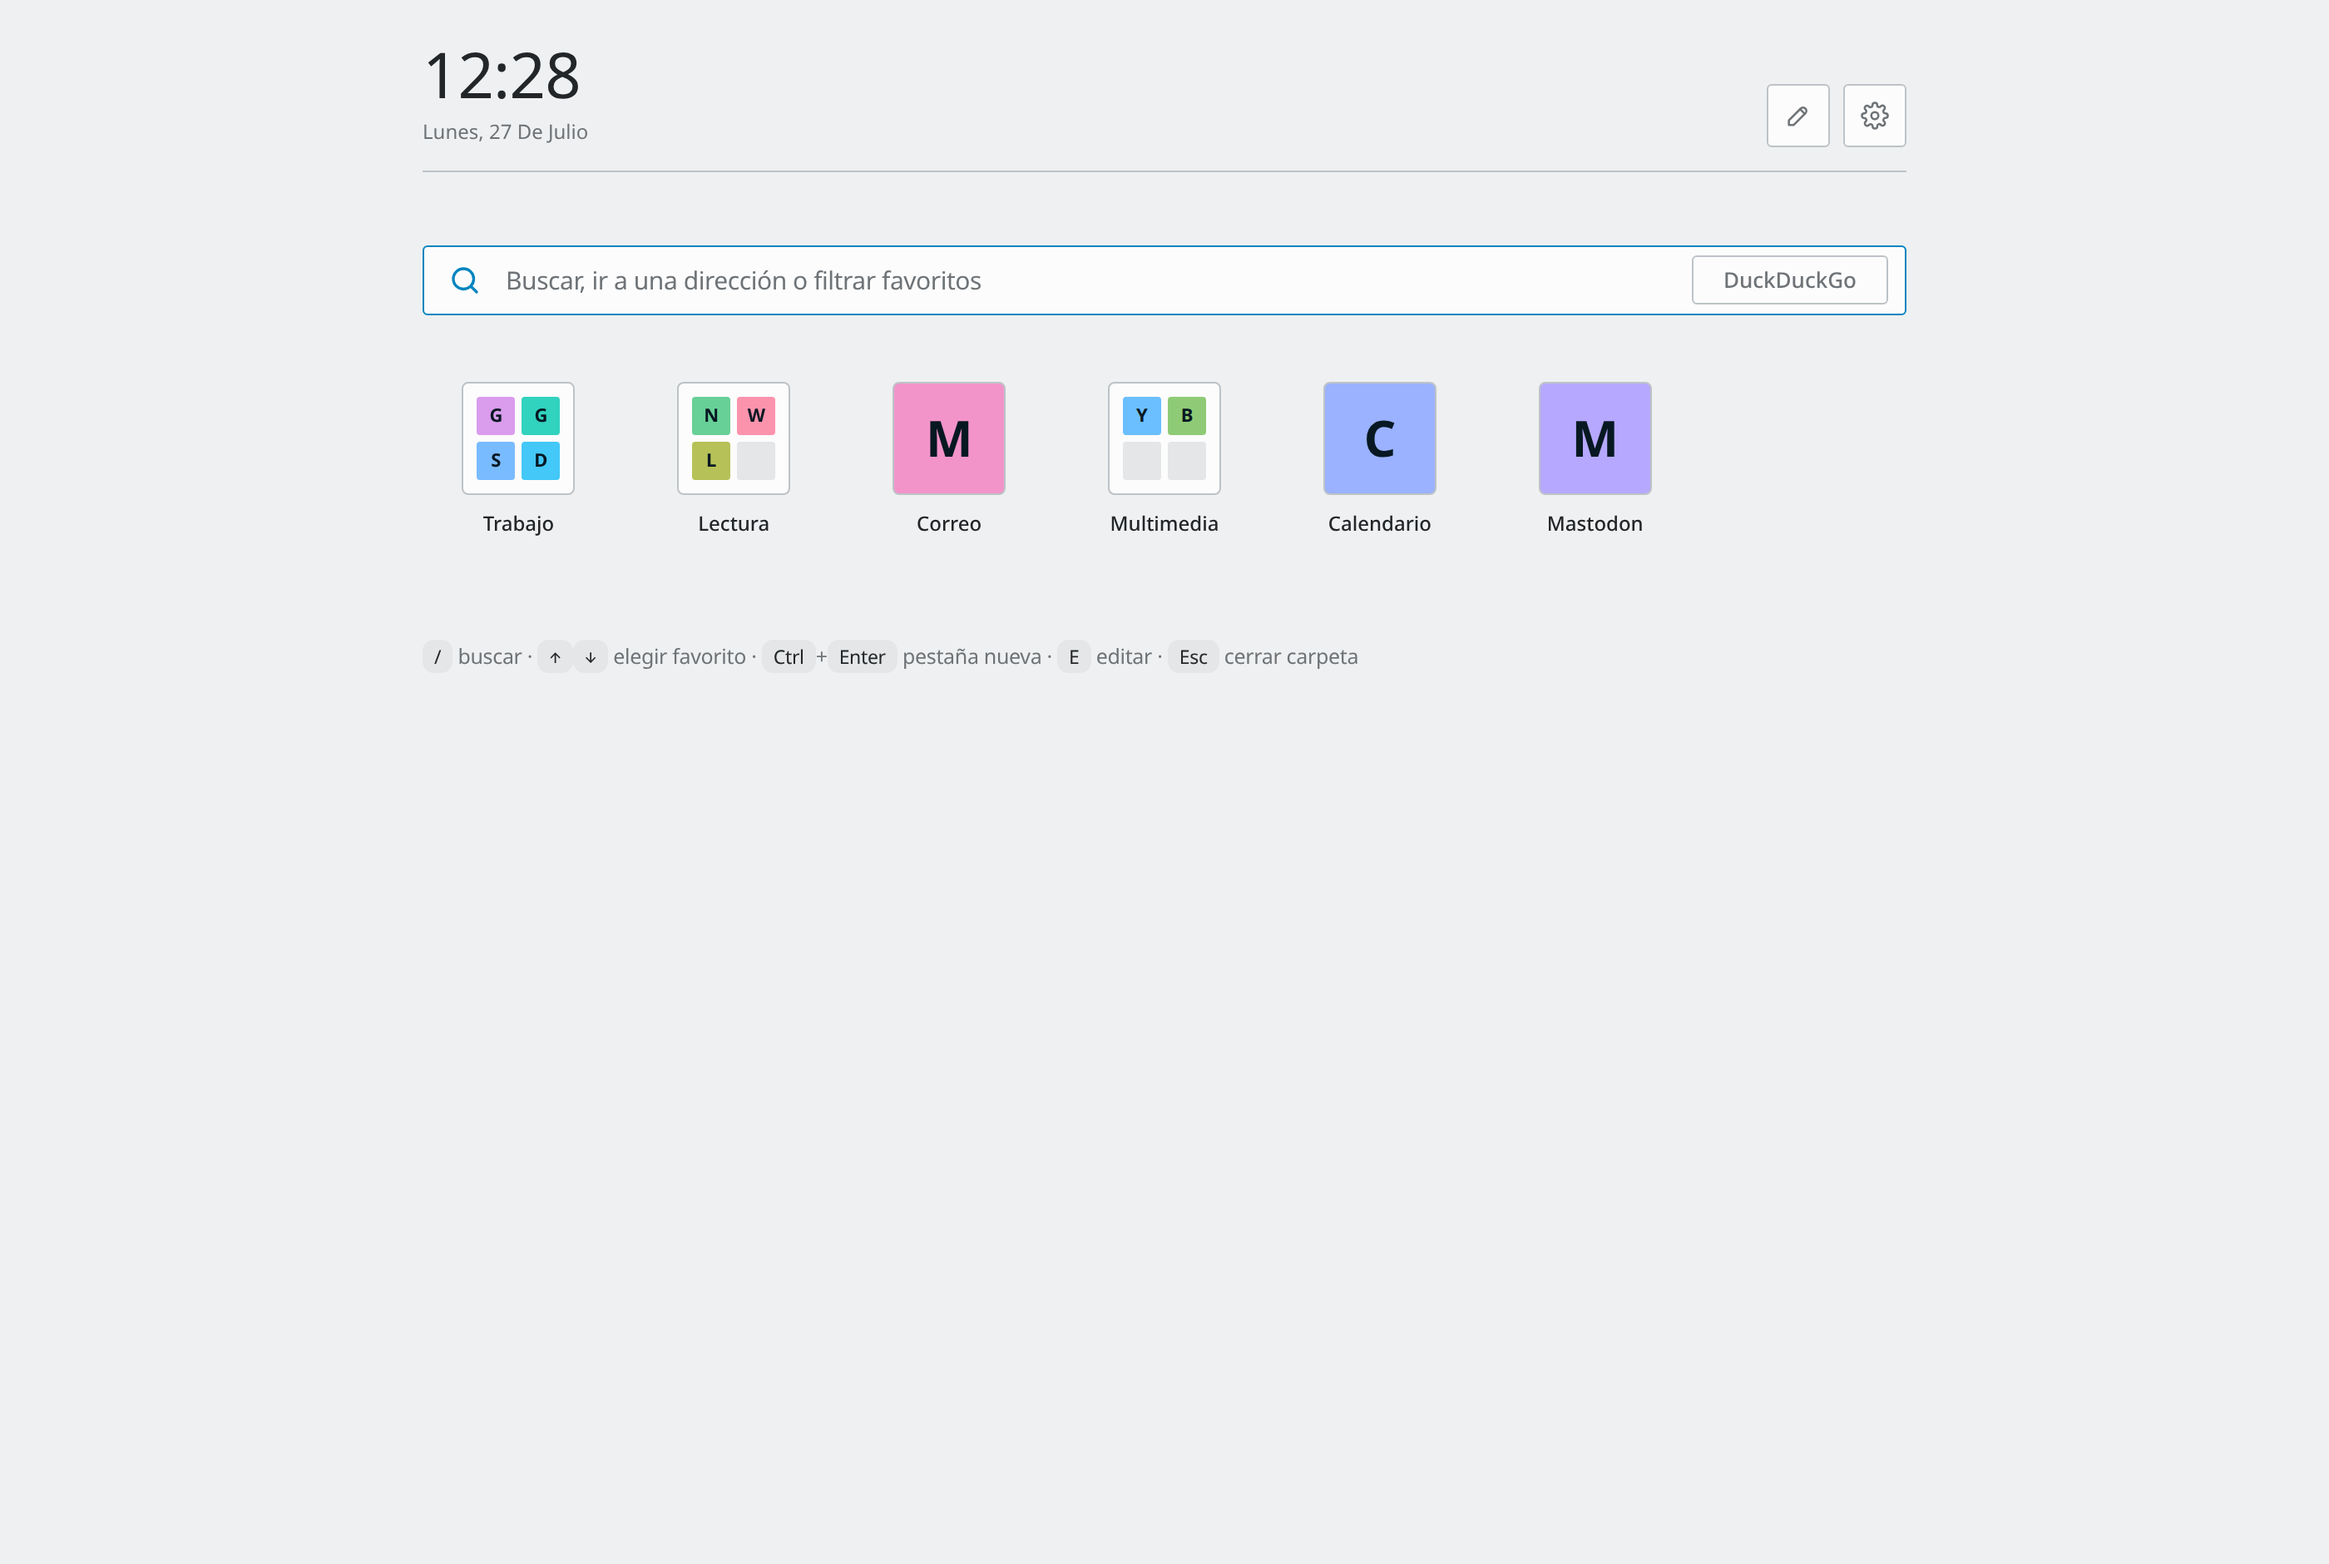
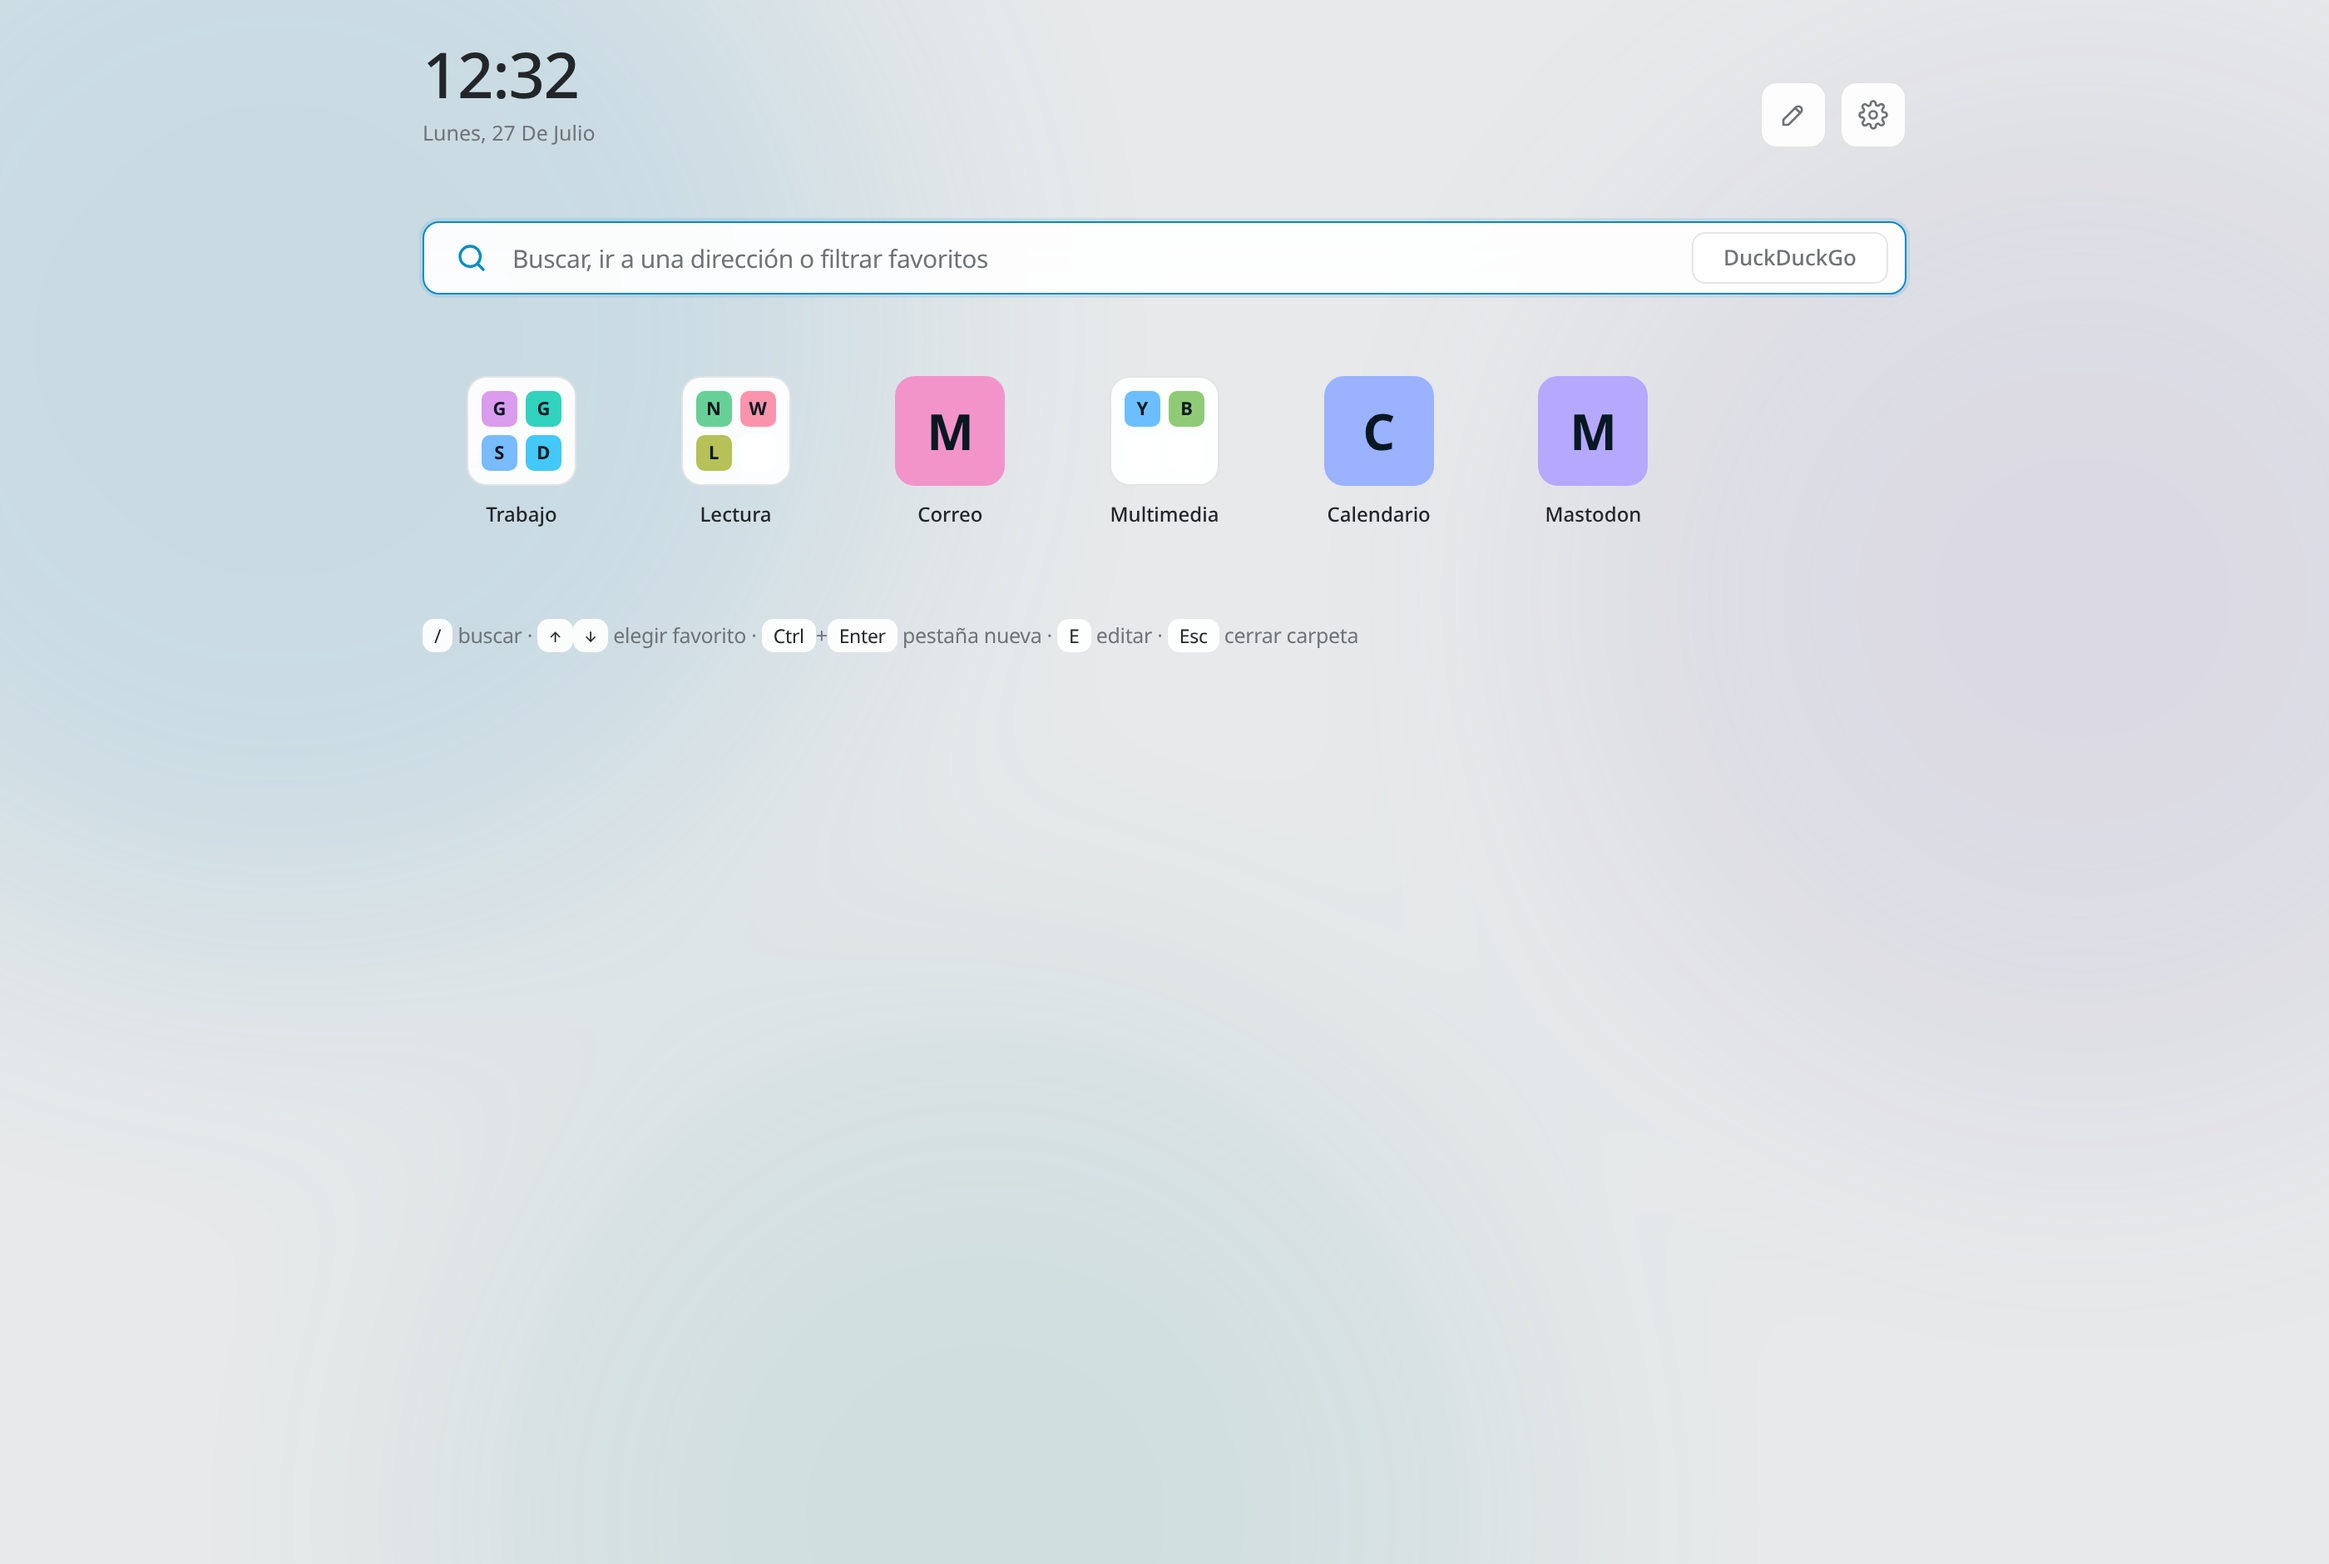
Rehace el estilo Breeze siguiendo Plasma 6

diff --git a/index.html b/index.html
@@ -835,117 +835,145 @@
   html[data-style="nordico"] label select { border-radius: 14px; }
 
 
-  /* ---------- BREEZE: KDE Plasma. Plano, marcos de 1 px, acento configurable ----------
-     Colores oficiales del tema: vista #232629, ventana #31363B, texto #EFF0F1,
-     papel #FCFCFC, cartón #EFF0F1, borde #BDC3C7. El azul Plasma (#3DAEE9) sale
-     del tono semilla: elige el tono 236 en Ajustes para el aspecto de fábrica. */
+  /* ---------- BREEZE: KDE Plasma 6. Redondeado, translúcido y con desenfoque ----------
+     Plasma 6 suavizó mucho el tema: los popups son translúcidos con blur, las esquinas
+     pasaron a ser claramente redondeadas y la selección es un relleno azul suave, no un
+     marco. Colores oficiales: vista #FCFCFC / #232629, ventana #EFF0F1 / #31363B.
+     El azul Plasma (#3DAEE9) sale del tono semilla: elige el 236 para el aspecto de fábrica. */
   html[data-style="breeze"] {
     --font: "Noto Sans", "Inter", "Cantarell", "DejaVu Sans", system-ui, sans-serif;
     --font-display: var(--font);
-    --tile: 68px;
-    --r-face: 4px; --r-mini: 2px; --r-app: 4px; --r-panel: 4px;
-    --field-h: 42px; --r-field: 3px; --r-chip: 3px;
-    --blur-1: 0px; --blur-2: 0px; --blur-3: 0px; --sat: 100%;
-    --mesh-op: 0;
-    --grid-gap: 26px 14px;
+    --tile: 66px;
+    --r-face: 12px; --r-mini: 5px; --r-app: 12px; --r-panel: 14px;
+    --field-h: 44px; --r-field: 10px; --r-chip: 8px;
+    --blur-1: 18px; --blur-2: 26px; --blur-3: 32px; --sat: 130%;
+    --mesh-op: 0.30;
+    --grid-gap: 20px 10px;
     --label-fs: 12px; --label-tt: none; --label-ls: 0;
     --glass: 0 0 0 0 transparent;
 
-    --bg:        #232629;
-    --bg-2:      #31363B;
-    --surface:   #31363B;
-    --surface-2: #3B4045;
-    --outline:   #4D5359;
-    --text:      #EFF0F1;
-    --muted:     #9AA1A8;
-    --primary:   oklch(0.70 0.115 var(--hue));
+    --bg:        #1E2226;
+    --bg-2:      #2A2E33;
+    --surface:   rgba(49, 54, 59, 0.72);
+    --surface-2: rgba(62, 68, 74, 0.82);
+    --outline:   rgba(255, 255, 255, 0.11);
+    --text:      #FCFCFC;
+    --muted:     #A6ADB4;
+    --primary:   oklch(0.72 0.118 var(--hue));
     --on-primary: #FCFCFC;
-    --shadow:    0 1px 4px rgba(0, 0, 0, 0.38);
-    --scrim:     rgba(20, 22, 24, 0.66);
+    --shadow:    0 10px 30px -8px rgba(0, 0, 0, 0.55);
+    --scrim:     rgba(18, 20, 23, 0.6);
+    --realce:    color-mix(in oklab, var(--primary) 26%, transparent);
+    --suave:     color-mix(in oklab, var(--primary) 13%, transparent);
   }
   html[data-style="breeze"][data-mode="light"] {
-    --bg:        #EFF0F1;
+    --bg:        #E7E9EA;
     --bg-2:      #FCFCFC;
-    --surface:   #FCFCFC;
-    --surface-2: #E4E6E7;
-    --outline:   #BDC3C7;
+    --surface:   rgba(252, 252, 252, 0.80);
+    --surface-2: rgba(255, 255, 255, 0.92);
+    --outline:   rgba(0, 0, 0, 0.10);
     --text:      #232629;
     --muted:     #6E7377;
-    --primary:   oklch(0.58 0.135 var(--hue));
+    --primary:   oklch(0.60 0.135 var(--hue));
     --on-primary: #FCFCFC;
-    --shadow:    0 1px 3px rgba(0, 0, 0, 0.13);
-    --scrim:     rgba(239, 240, 241, 0.72);
+    --shadow:    0 10px 26px -10px rgba(0, 0, 0, 0.22);
+    --scrim:     rgba(231, 233, 234, 0.66);
+    --realce:    color-mix(in oklab, var(--primary) 22%, transparent);
+    --suave:     color-mix(in oklab, var(--primary) 11%, transparent);
   }
 
-  html[data-style="breeze"] .mesh { display: none; }
-  html[data-style="breeze"] .now .h { font-weight: 400; font-size: 38px; letter-spacing: -0.012em; }
-  html[data-style="breeze"] .now .d { font-size: 12px; letter-spacing: 0; }
-  html[data-style="breeze"] .topbar { border-bottom: 1px solid var(--outline); padding-bottom: 14px; }
+  /* un fondo de color muy tenue, como el escritorio detrás de un popup translúcido */
+  html[data-style="breeze"] .blob { filter: saturate(60%) brightness(1.1); }
+  html[data-style="breeze"] .now .h { font-weight: 500; font-size: 38px; letter-spacing: -0.018em; }
+  html[data-style="breeze"] .now .d { font-size: 12.5px; letter-spacing: 0; }
 
-  /* el buscador imita un QLineEdit: marco fino que se tiñe de azul al enfocar */
+  /* buscador de Kickoff: redondeado, translúcido, sin marco duro */
   html[data-style="breeze"] .field {
-    background: var(--bg-2);
+    background: var(--surface-2);
     border: 1px solid var(--outline);
     box-shadow: none;
-    padding-left: 14px;
+    padding-left: 18px;
   }
-  html[data-style="breeze"] .field:focus-within { border-color: var(--primary); transform: none; }
+  html[data-style="breeze"] .field:focus-within {
+    border-color: var(--primary);
+    box-shadow: 0 0 0 2px var(--suave);
+    transform: none;
+  }
   html[data-style="breeze"] #q { font-size: 15px; }
 
-  /* botones planos con marco, como los QPushButton de Breeze */
+  /* botones planos y redondeados; al pasar por encima se rellenan, no se enmarcan */
   html[data-style="breeze"] .icon-btn,
   html[data-style="breeze"] .engine-chip,
   html[data-style="breeze"] .mini-btn,
   html[data-style="breeze"] .dialog-actions button {
-    background: var(--surface);
+    background: var(--surface-2);
     border: 1px solid var(--outline);
-    border-radius: 3px;
     box-shadow: none;
   }
-  html[data-style="breeze"] .icon-btn { width: 38px; height: 38px; }
-  html[data-style="breeze"] .icon-btn svg { width: 17px; height: 17px; }
+  html[data-style="breeze"] .icon-btn { width: 40px; height: 40px; border-radius: 10px; }
+  html[data-style="breeze"] .icon-btn svg { width: 18px; height: 18px; }
   html[data-style="breeze"] .icon-btn:hover,
   html[data-style="breeze"] .engine-chip:hover,
   html[data-style="breeze"] .mini-btn:hover,
   html[data-style="breeze"] .dialog-actions button:hover {
-    border-color: var(--primary); color: var(--text); transform: none; background: var(--surface);
+    background: var(--suave); border-color: var(--primary); color: var(--text); transform: none;
   }
   html[data-style="breeze"] .icon-btn.on,
   html[data-style="breeze"] .dialog-actions .primary {
-    background: var(--primary); border-color: var(--primary); color: var(--on-primary);
+    background: var(--primary); border-color: transparent; color: var(--on-primary);
   }
 
-  /* iconos planos: ni brillo ni relieve */
-  html[data-style="breeze"] .face { box-shadow: none; border: 1px solid var(--outline); }
-  html[data-style="breeze"] .face.folder { background: var(--surface); gap: 4px; padding: 8px; }
-  html[data-style="breeze"] .app-icon { box-shadow: none; border: 1px solid var(--outline); }
-  html[data-style="breeze"] .tile:hover .face { transform: none; border-color: var(--primary); }
+  /* iconos a todo color y sin marco, con el realce detrás como en el lanzador */
+  html[data-style="breeze"] .tile {
+    padding: 9px 5px 7px;
+    border-radius: 12px;
+    transition: background .13s var(--ease), transform .18s var(--ease);
+  }
+  html[data-style="breeze"] .tile:hover { background: var(--suave); }
+  html[data-style="breeze"] .tile:active { background: var(--realce); }
+  html[data-style="breeze"] .face { box-shadow: none; border: 0; }
+  html[data-style="breeze"] .face.folder {
+    background: var(--surface-2);
+    border: 1px solid var(--outline);
+    gap: 5px; padding: 8px;
+  }
+  html[data-style="breeze"] .tile:hover .face { transform: none; border-color: var(--outline); }
   html[data-style="breeze"] .tile:active .face { transform: none; }
-  html[data-style="breeze"] .app:hover { transform: none; }
+  html[data-style="breeze"] .tile.drop-into .face { transform: scale(1.06); border-color: var(--primary); }
+  html[data-style="breeze"] .app-icon { box-shadow: none; }
+  html[data-style="breeze"] .app { padding: 8px 4px; border-radius: 12px; }
+  html[data-style="breeze"] .app:hover { background: var(--suave); transform: none; }
   html[data-style="breeze"] .tile-host { display: none; }
-  html[data-style="breeze"] .more-badge { border-radius: 2px; }
+  html[data-style="breeze"] .more-badge { border-radius: 999px; }
 
-  /* selección de relleno sólido, la marca de la casa */
-  html[data-style="breeze"] .hits { border-radius: 3px; box-shadow: var(--shadow); }
-  html[data-style="breeze"] .panel { border-radius: 4px; }
-  html[data-style="breeze"] .panel-head { border-bottom: 1px solid var(--outline); padding-bottom: 12px; }
-  html[data-style="breeze"] dialog { border-radius: 4px; }
-  html[data-style="breeze"] .segmented {
-    background: transparent; border: 1px solid var(--outline); border-radius: 3px; padding: 3px;
+  /* selección: relleno azul suave con el texto normal, no azul sólido con texto blanco */
+  html[data-style="breeze"] .hits {
+    border-radius: 12px; box-shadow: var(--shadow); padding: 4px;
   }
-  html[data-style="breeze"] .segmented button { border-radius: 2px; }
+  html[data-style="breeze"] .hit { border-radius: 8px; }
+  html[data-style="breeze"] .hit[aria-selected="true"] { background: var(--realce); color: var(--text); }
+  html[data-style="breeze"] .hit[aria-selected="true"] .path { color: var(--muted); opacity: 1; }
+
+  html[data-style="breeze"] .panel { border-radius: 14px; }
+  html[data-style="breeze"] .panel-head { border-bottom: 1px solid var(--outline); padding-bottom: 14px; }
+  html[data-style="breeze"] dialog { border-radius: 14px; background: var(--bg-2); }
+  html[data-style="breeze"] .segmented {
+    background: var(--surface); border: 1px solid var(--outline); border-radius: 10px; padding: 4px;
+  }
+  html[data-style="breeze"] .segmented button { border-radius: 7px; }
+  html[data-style="breeze"] .segmented button:hover[aria-pressed="false"] { background: var(--suave); }
   html[data-style="breeze"] label input[type="text"],
   html[data-style="breeze"] label select {
-    background: var(--bg-2); border-color: var(--outline); border-radius: 3px;
+    background: var(--surface-2); border-color: var(--outline); border-radius: 9px;
   }
-  html[data-style="breeze"] .backup { border-radius: 3px; border: 1px solid var(--outline); }
+  html[data-style="breeze"] .backup { border-radius: 9px; }
 
-  /* barras de desplazamiento al estilo Plasma */
+  /* barras de desplazamiento finas, al estilo Plasma */
   html[data-style="breeze"] ::-webkit-scrollbar { width: 12px; height: 12px; }
   html[data-style="breeze"] ::-webkit-scrollbar-track { background: transparent; }
   html[data-style="breeze"] ::-webkit-scrollbar-thumb {
-    background: var(--outline); border-radius: 6px;
-    border: 3px solid transparent; background-clip: content-box;
+    background: var(--muted); border-radius: 999px;
+    border: 4px solid transparent; background-clip: content-box; opacity: .5;
   }
   html[data-style="breeze"] ::-webkit-scrollbar-thumb:hover {
     background: var(--primary); background-clip: content-box;
@@ -2943,7 +2971,7 @@
     if (!ev.target.closest(".console")) { current = []; paintHits(); }
   });
 
-  var VERSION = "1.7.0";
+  var VERSION = "1.8.0";
   document.getElementById("version").textContent =
     "Zaguán " + VERSION + " · " + (window.PointerEvent ? "arrastre por puntero" : "sin PointerEvent");
 
